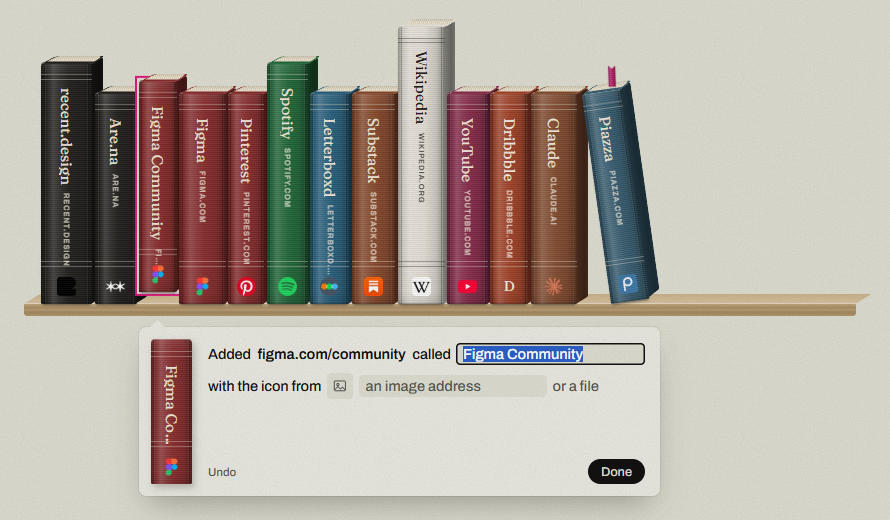
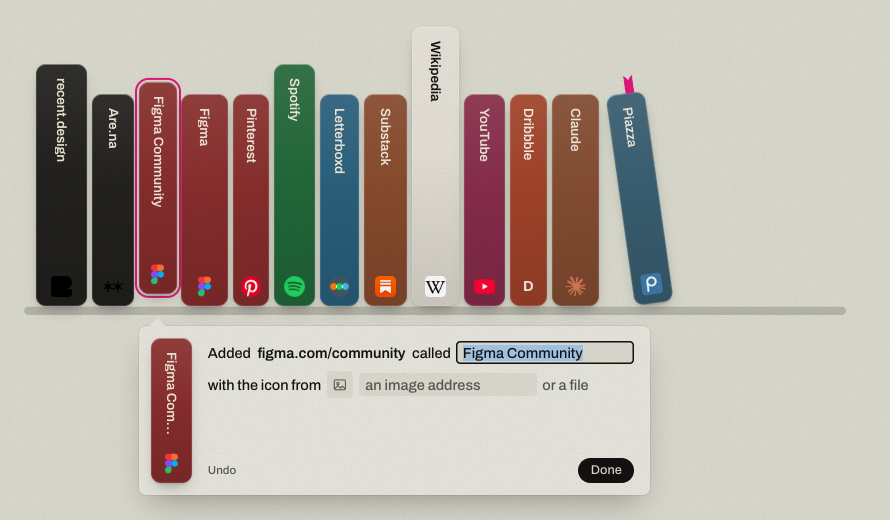
docs: new screenshots, 2d first

Changed region(s): [[0.0303, 0.0308, 0.9708, 0.6154], [0.1517, 0.6462, 0.7584, 0.9538]]

diff --git a/README.md b/README.md
@@ -2,13 +2,13 @@
 
 Shelf turns Chrome's new tab page into a bookshelf, where every link is a book with its cover dyed from the site's icon. The books live in their own bookmark folder, so your bookmarks bar stays the way it is. The putty paper is sampled from Shopify Editions and the spines are after Grokipedia's shelf.
 
-![Shelf in 3D](docs/shelf-3d.png)
+![Shelf in 2D](docs/shelf-2d.png)
 
 ## Main features
 
 - Every link is a book, coloured from its site's icon
 - Drag any link onto the shelf to add it
-- A 3D shelf with cloth spines, or a flat 2D one
+- A flat 2D shelf, or a 3D one with cloth spines
 - Nine papers (or any colour) and five accents
 - A ribbon on the site you open the most
 
@@ -39,7 +39,7 @@ Edge, Brave and Arc load it the same way. The extension ID is fixed in the manif
 
    ![Settings](docs/settings.png)
 
-   ![Shelf in 2D](docs/shelf-2d.png)
+   ![Shelf in 3D](docs/shelf-3d.png)
 
 ## All features
 
